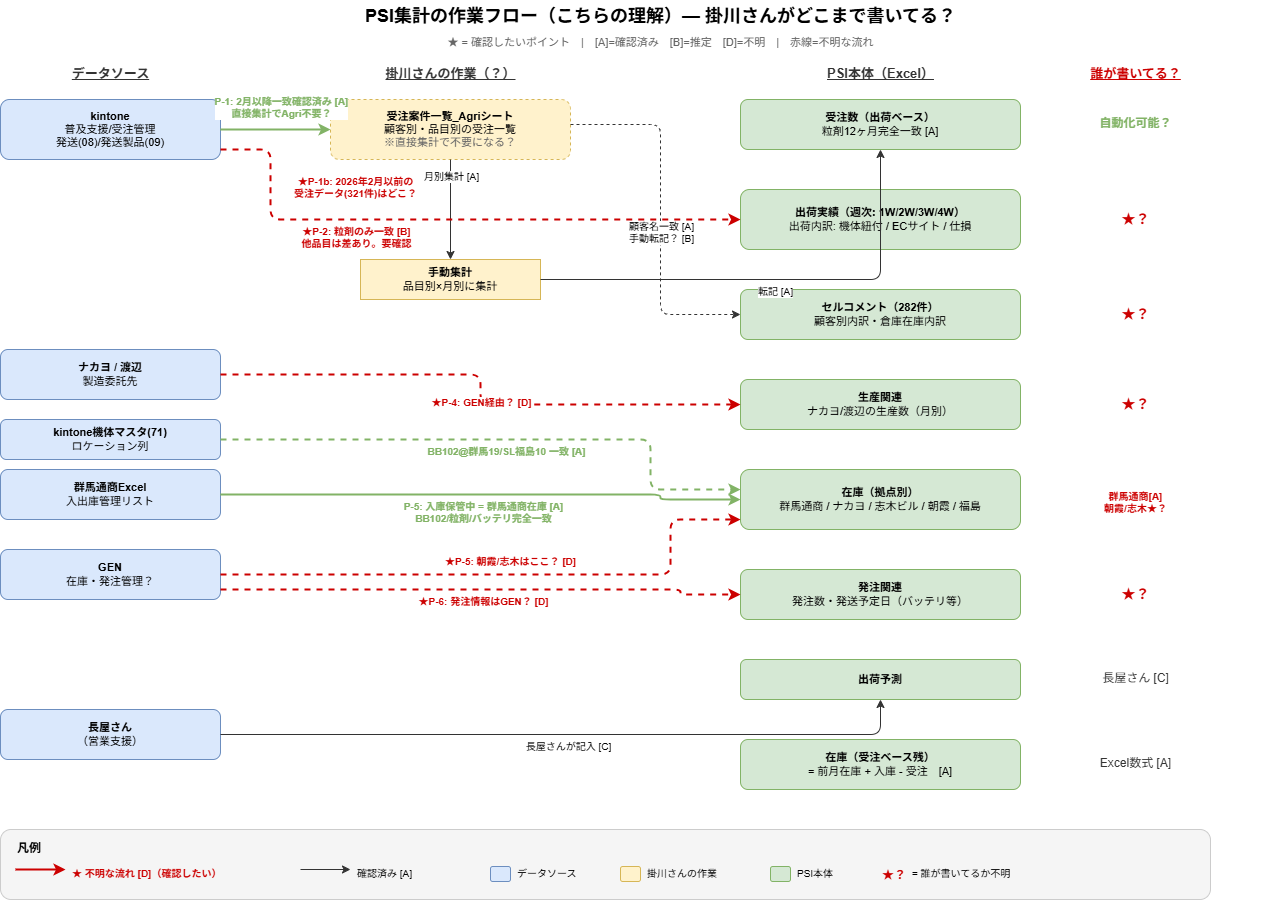
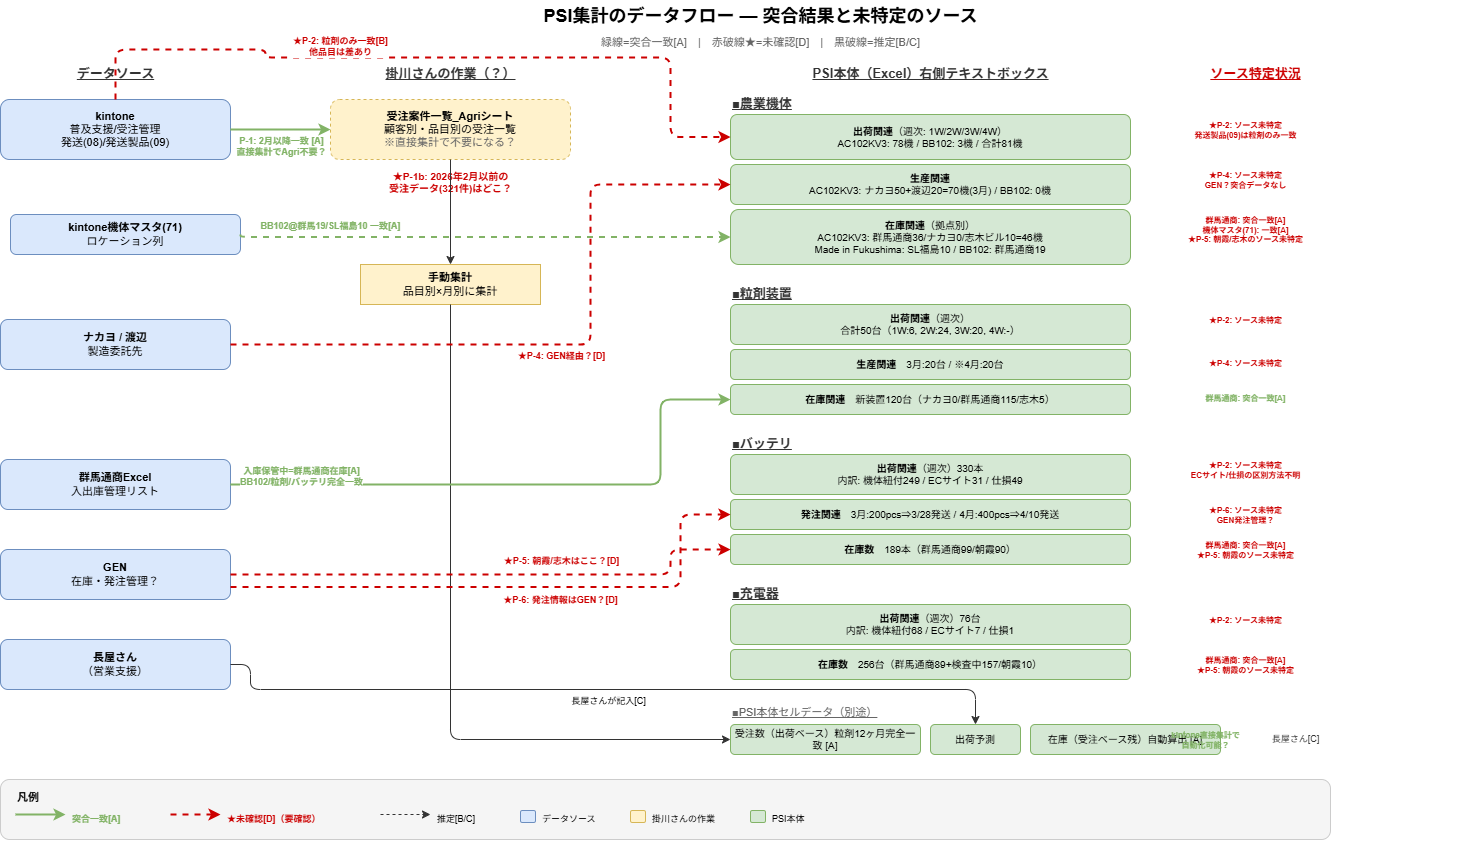
Session 319: 資料修正（ソース特定ベースに変更）・掛川さんミーティング実施
- drawio/質問リストの構成修正:「誰が書いてる？」→「突合で特定できた/できなかったソース」
- 掛川さんミーティング: GEN不使用判明、kintoneのみでPSI集計
- S320計画作成（ヒアリング結果整理・PSI自動化再評価）

diff --git a/sessions/session319/session-summary.md b/sessions/session319/session-summary.md
@@ -1,0 +1,50 @@
+# Session 319 サマリー
+
+**日時**: 2026-03-26
+**目的**: 掛川さんミーティング前の資料修正 + ミーティング実施
+
+---
+
+## 実施内容
+
+### 1. 資料修正（ミーティング前）
+
+drawioとkakegawa-questions.mdの構成を修正:
+- **問題**: 「掛川さんがPSI書いてる」は前提として既知なのに「誰が書いてる？」と聞く構成だった
+- **修正**: 突合で分かった/分からなかった部分をベースに「★ソースが特定できなかった。元データはどこ？」と聞く形に変更
+
+具体的な変更:
+- drawioタイトル: 「掛川さんがどこまで書いてる？」→「突合結果と未特定のソース」
+- 右列: 「誰が書いてる？/★？」→「ソース特定状況（特定済み[A]/★未特定+理由）」
+- kakegawa-questions.mdテーブル: 「掛川さんが書いてる？」列 →「ソース特定状況」列
+- まとめの質問: ★P-2/P-4/P-5/P-6で整理
+
+### 2. 掛川さんミーティング実施
+
+**重要な発見**:
+- **GENは使っていない** — PSIの元データはkintoneからの情報だけ
+- 細かくヒアリングできた（詳細は次セッションで共有・整理予定）
+
+---
+
+## 成果物
+
+| ファイル | 内容 |
+|----------|------|
+| [psi-dataflow-understanding.drawio](../session318/psi-dataflow-understanding.drawio) | S318のdrawioを修正（ソース特定状況ベースに変更） |
+| [kakegawa-questions.md](../session318/kakegawa-questions.md) | S318の質問リストを修正（突合結果ベースに変更） |
+
+---
+
+## 次セッションでやること
+
+| # | やること | 理由 |
+|---|---------|------|
+| 1 | **掛川さんヒアリング結果の共有・整理** | 細かく聞いてきた内容を資料に反映。GEN不使用の前提でdrawio・確度を全面更新 |
+| 2 | **PSI自動化の実現可能性再評価** | GEN不使用→kintoneだけでどこまで自動化できるか再整理 |
+
+**作業可能時間**: 3/27 午前中（午後は棚卸作業）
+
+---
+
+*作成: Session 319 (2026-03-26)*

diff --git a/sessions/session320/session-plan.md b/sessions/session320/session-plan.md
@@ -1,0 +1,28 @@
+# Session 320 計画
+
+**前セッション**: [Session 319](../session319/session-summary.md)
+
+---
+
+## やること（優先順）
+
+| # | 作業 | 理由 |
+|---|------|------|
+| 1 | 掛川さんヒアリング結果の共有・整理 | 細かく聞いてきた内容を資料化。GEN不使用が判明したのでdrawio・確度を全面更新 |
+| 2 | PSI自動化の実現可能性再評価 | kintoneだけでどこまで自動化できるか再整理 |
+
+**制約**: 午前中のみ作業可能（午後は棚卸作業）
+
+---
+
+## 参照資料
+
+| 資料 | 内容 |
+|------|------|
+| [session318/kakegawa-questions.md](../session318/kakegawa-questions.md) | 掛川さんへの確認事項（S319で修正済み） |
+| [session318/psi-dataflow-understanding.drawio](../session318/psi-dataflow-understanding.drawio) | PSIデータフロー図（S319で修正済み） |
+| [session318/psi-rightside-rawtext.md](../session318/psi-rightside-rawtext.md) | PSI右側テキスト原文 |
+
+---
+
+*作成: Session 319終了時 (2026-03-26)*

diff --git a/sessions/session-history/session-311-320.md b/sessions/session-history/session-311-320.md
@@ -196,3 +196,22 @@
 **詳細**: [session318/session-summary.md](../session318/session-summary.md)
 
 ---
+
+## Session 319 (2026-03-26)
+
+**概要**: 掛川さんミーティング前の資料修正 + ミーティング実施
+
+**重要な成果**:
+- drawio/kakegawa-questions.mdの構成修正:「誰が書いてる？」→「突合で特定できた/できなかったソース」ベースに変更
+- **掛川さんミーティング実施**: GENは使っていない、PSIの元データはkintoneからの情報のみ（重要な発見）
+- 細かくヒアリングできた（詳細はS320で整理予定）
+
+**作成ファイル**:
+
+| ファイル | 内容 |
+|----------|------|
+| [session319/session-summary.md](../session319/session-summary.md) | セッションサマリー |
+
+**詳細**: [session319/session-summary.md](../session319/session-summary.md)
+
+---
